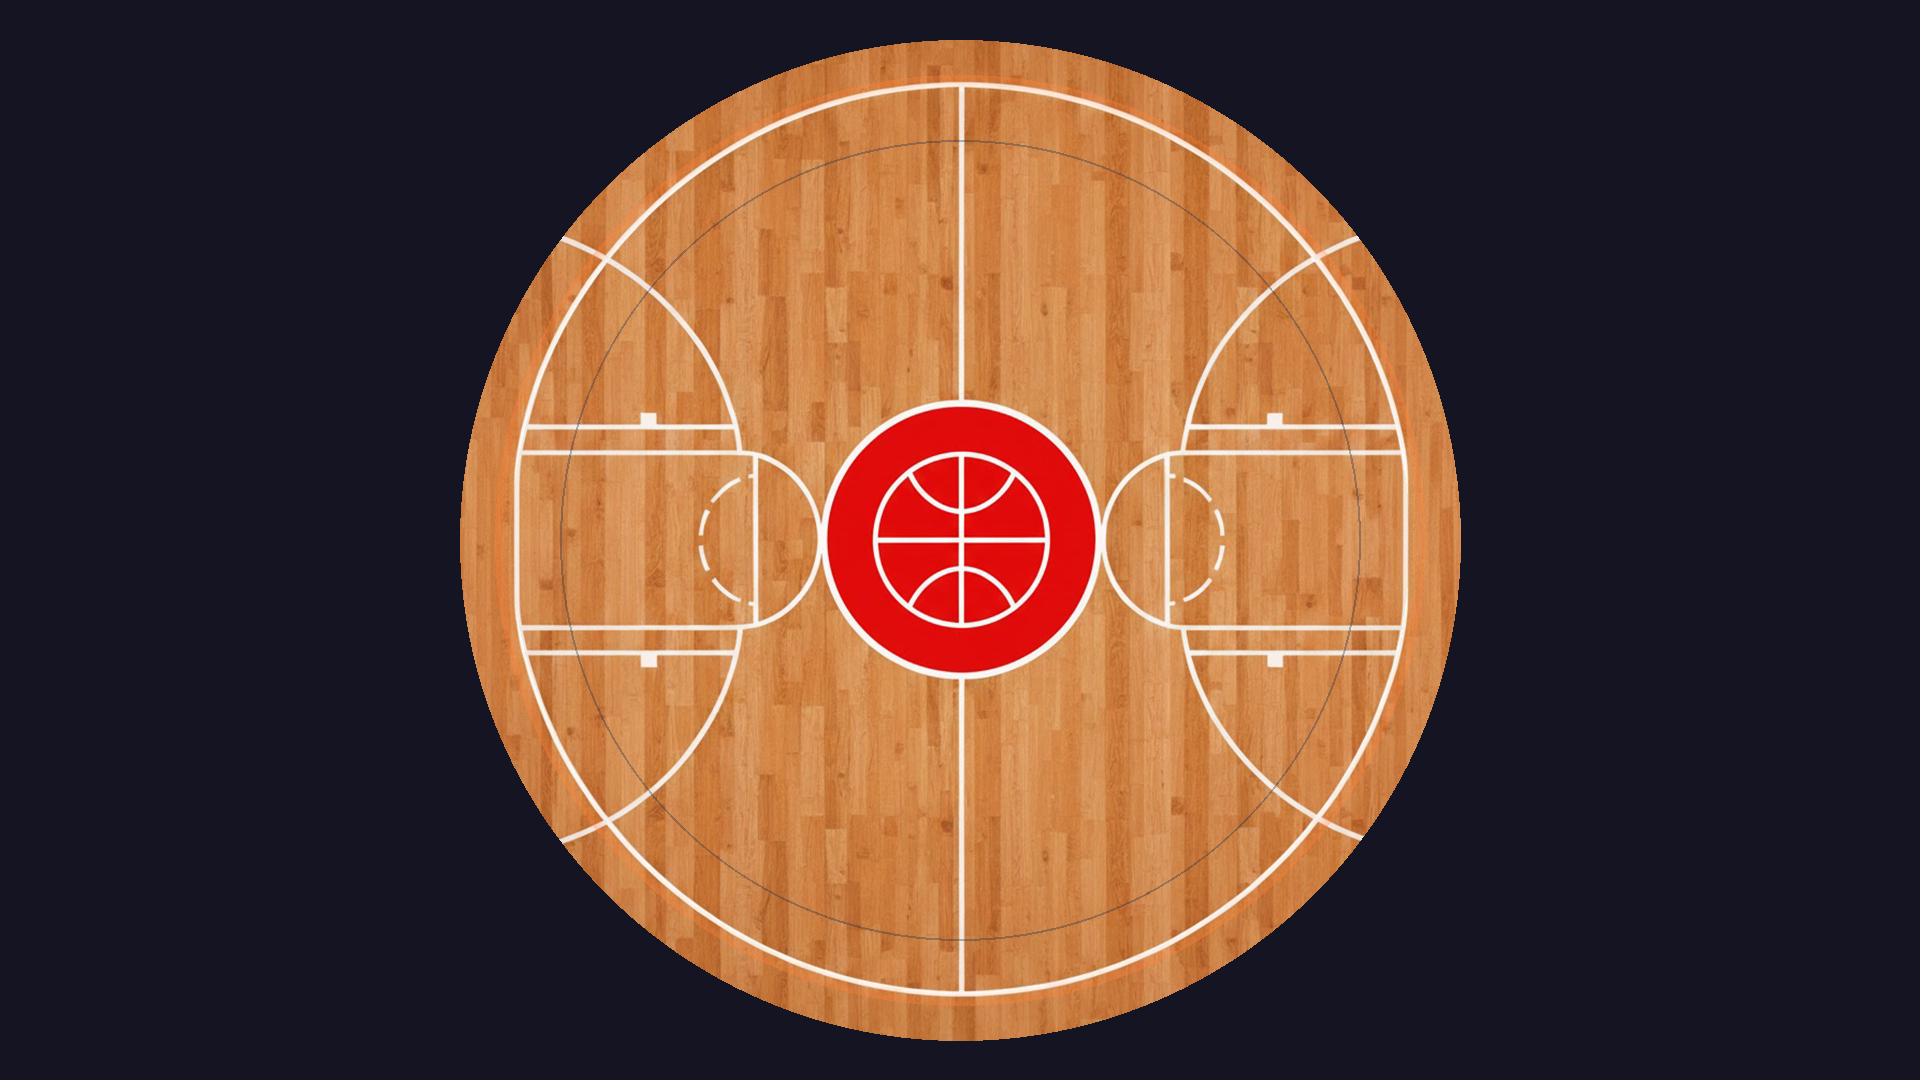
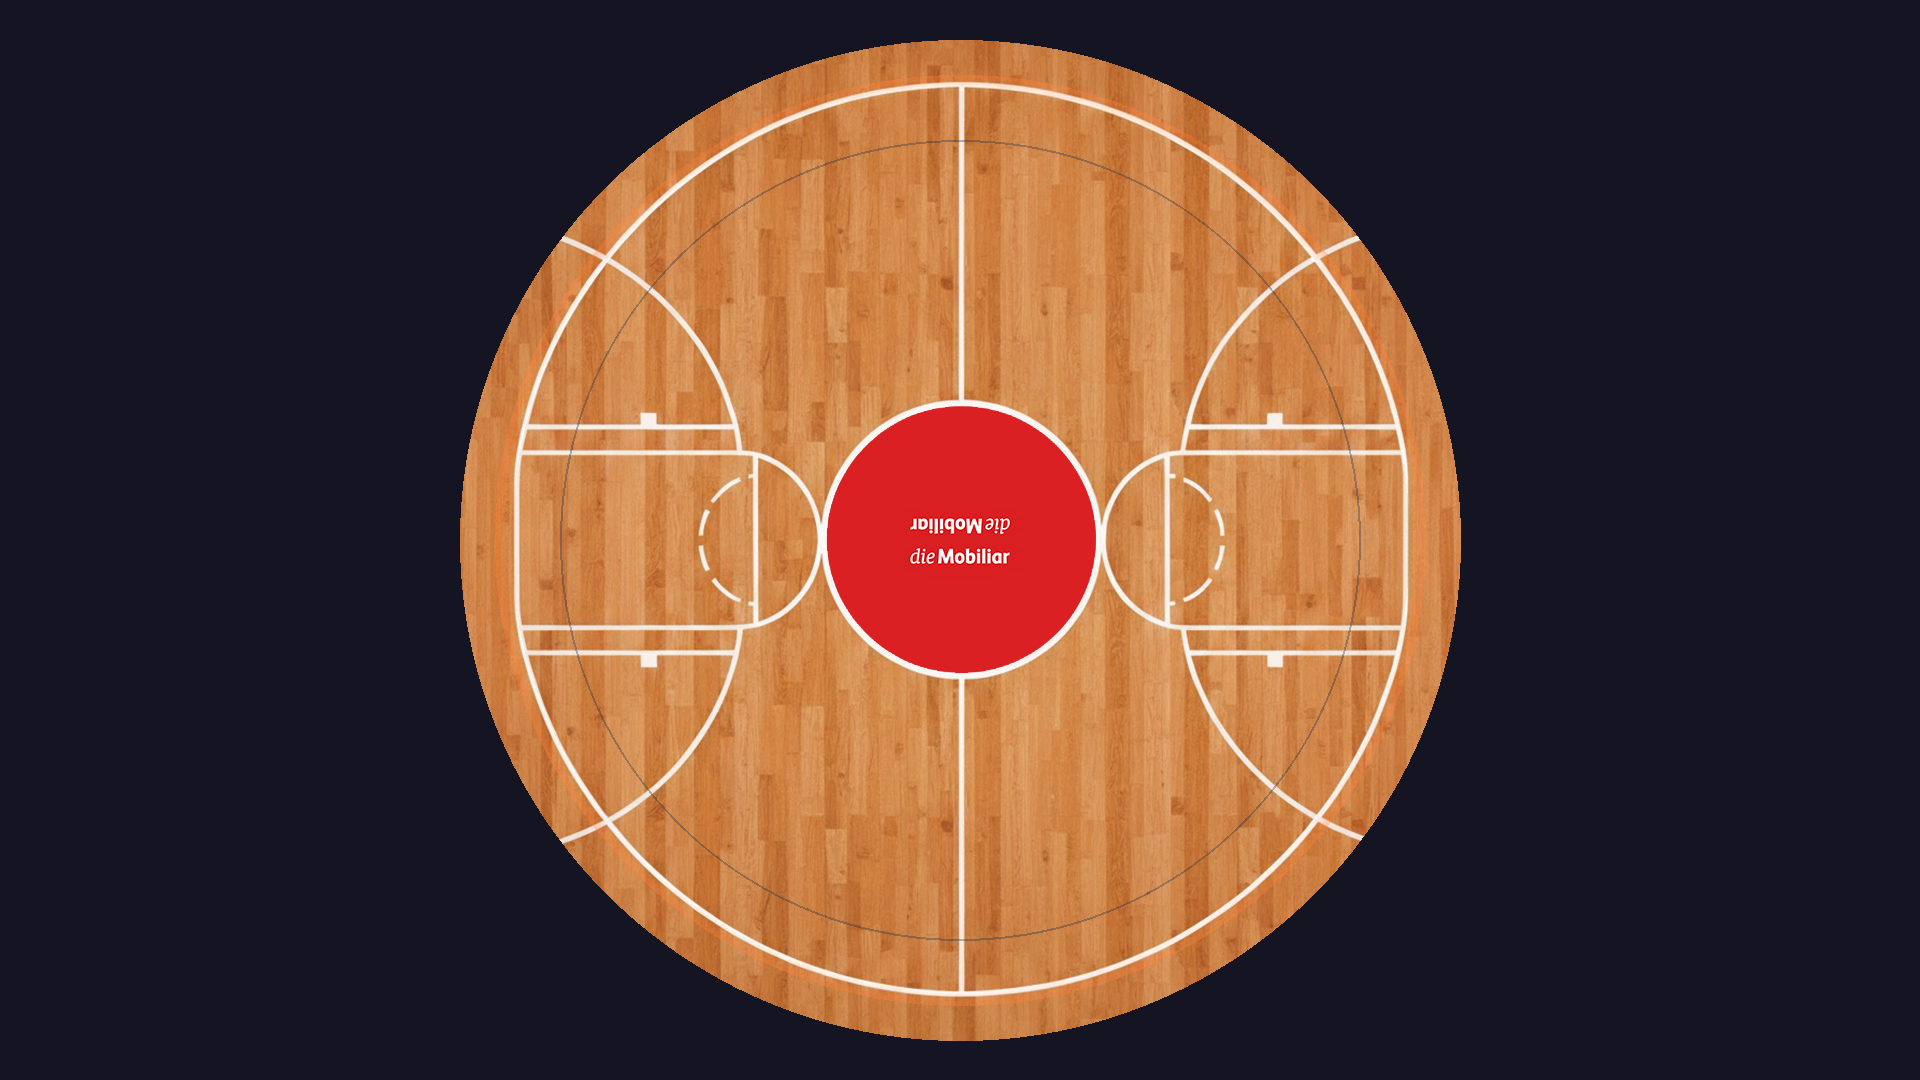
feat: update game visuals and scoring mechanics
- Change title from "Win for Life Roadshow" to "Mobi Arena"
- Update scoring system to simplify points calculation without combos
- Add flipped UI elements for timer and score display
- Localize lobby instructions to German
- Disable sparkles animation in backdrop configuration

Changed region(s): [[0.4062, 0.3667, 0.5938, 0.6417]]

diff --git a/docker/app/client/src/scenes/Game.ts b/docker/app/client/src/scenes/Game.ts
@@ -30,7 +30,9 @@ export default class Game extends Phaser.Scene {
 
   // UI elements
   private timerText?: Phaser.GameObjects.Text;
+  private timerTextFlipped?: Phaser.GameObjects.Text;
   private scoreText?: Phaser.GameObjects.Text;
+  private scoreTextFlipped?: Phaser.GameObjects.Text;
   private comboText?: Phaser.GameObjects.Text;
 
   // Game state
@@ -84,11 +86,11 @@ export default class Game extends Phaser.Scene {
   private createUI(): void {
     const centerX = CANVAS.WIDTH / 2;
 
-    // Timer at top center
+    // Timer at bottom
     this.timerText = this.add
-      .text(centerX, 50, this.formatTime(this.timeRemaining), {
+      .text(centerX, 1080 - 60, this.formatTime(this.timeRemaining), {
         fontFamily: "MuseoSansBold, sans-serif",
-        fontSize: "64px",
+        fontSize: "32px",
         color: "#ffffff",
         shadow: {
           offsetX: 3,
@@ -101,11 +103,29 @@ export default class Game extends Phaser.Scene {
       .setOrigin(0.5)
       .setDepth(DEPTH.UI_ELEMENTS);
 
+    // Timer flipped at top
+    this.timerTextFlipped = this.add
+      .text(centerX, 60, this.formatTime(this.timeRemaining), {
+        fontFamily: "MuseoSansBold, sans-serif",
+        fontSize: "32px",
+        color: "#ffffff",
+        shadow: {
+          offsetX: 3,
+          offsetY: 3,
+          color: "#333333",
+          blur: 0,
+          fill: true,
+        },
+      })
+      .setOrigin(0.5)
+      .setRotation(Math.PI)
+      .setDepth(DEPTH.UI_ELEMENTS);
+
     // Score at center (large)
     this.scoreText = this.add
-      .text(centerX, CANVAS.HEIGHT / 2, "0", {
+      .text(centerX, CANVAS.HEIGHT / 2 + 80, "0", {
         fontFamily: "MuseoSansBold, sans-serif",
-        fontSize: "120px",
+        fontSize: "80px",
         color: "#ffffff",
         shadow: {
           offsetX: 4,
@@ -116,6 +136,25 @@ export default class Game extends Phaser.Scene {
         },
       })
       .setOrigin(0.5)
+      .setDepth(DEPTH.UI_ELEMENTS)
+      .setAlpha(0.8);
+
+    // Score flipped 180° for opposite side
+    this.scoreTextFlipped = this.add
+      .text(centerX, CANVAS.HEIGHT / 2 - 80, "0", {
+        fontFamily: "MuseoSansBold, sans-serif",
+        fontSize: "80px",
+        color: "#ffffff",
+        shadow: {
+          offsetX: 4,
+          offsetY: 4,
+          color: "#333333",
+          blur: 0,
+          fill: true,
+        },
+      })
+      .setOrigin(0.5)
+      .setRotation(Math.PI)
       .setDepth(DEPTH.UI_ELEMENTS)
       .setAlpha(0.8);
 
@@ -172,14 +211,16 @@ export default class Game extends Phaser.Scene {
   private onTimerTick(): void {
     this.timeRemaining -= 100;
 
-    // Update timer display
-    this.timerText?.setText(this.formatTime(this.timeRemaining));
+    // Update timer display (both orientations)
+    const timeStr = this.formatTime(this.timeRemaining);
+    this.timerText?.setText(timeStr);
+    this.timerTextFlipped?.setText(timeStr);
 
     // Flash timer when low
     if (this.timeRemaining <= 10000 && this.timeRemaining > 0) {
-      this.timerText?.setColor(
-        this.timeRemaining % 1000 < 500 ? "#ff6b6b" : "#ffffff"
-      );
+      const color = this.timeRemaining % 1000 < 500 ? "#ff6b6b" : "#ffffff";
+      this.timerText?.setColor(color);
+      this.timerTextFlipped?.setColor(color);
     }
 
     // Check for game end
@@ -234,13 +275,9 @@ export default class Game extends Phaser.Scene {
 
     console.log(`Game Over! Score: ${finalScore}, Players: ${playerCount}`);
 
-    // Transition to Result scene
+    // Restart game immediately (skip result screen)
     this.time.delayedCall(500, () => {
-      this.scene.start(SceneKeys.Result, {
-        score: finalScore,
-        playerCount,
-        isTeamGame: true,
-      });
+      this.scene.restart({ players: this.players });
     });
   }
 
@@ -255,11 +292,11 @@ export default class Game extends Phaser.Scene {
       this.gameArena?.movePaddle(0, 1, delta);
     }
 
-    // Player 2: A/D keys
+    // Player 2: A/D keys (inverted for easier play)
     if (player2Left.isDown) {
-      this.gameArena?.movePaddle(1, -1, delta);
-    } else if (player2Right.isDown) {
       this.gameArena?.movePaddle(1, 1, delta);
+    } else if (player2Right.isDown) {
+      this.gameArena?.movePaddle(1, -1, delta);
     }
 
     // Update game logic (balls, collisions, etc)
@@ -276,8 +313,9 @@ export default class Game extends Phaser.Scene {
     const state = this.gameArena?.getState();
     if (!state) return;
 
-    // Update score
+    // Update score (both orientations)
     this.scoreText?.setText(String(state.score));
+    this.scoreTextFlipped?.setText(String(state.score));
 
     // Update combo
     if (state.combo > 1) {
@@ -311,8 +349,12 @@ export default class Game extends Phaser.Scene {
     this.backdrop = undefined;
     this.timerText?.destroy();
     this.timerText = undefined;
+    this.timerTextFlipped?.destroy();
+    this.timerTextFlipped = undefined;
     this.scoreText?.destroy();
     this.scoreText = undefined;
+    this.scoreTextFlipped?.destroy();
+    this.scoreTextFlipped = undefined;
     this.comboText?.destroy();
     this.comboText = undefined;
   }

diff --git a/docker/app/client/src/managers/GameArena.ts b/docker/app/client/src/managers/GameArena.ts
@@ -161,29 +161,21 @@ export default class GameArena {
     ball.setVelocity(newVelocity.x, newVelocity.y);
     ball.increaseSpeed();
 
-    // Update score
-    const previousCombo = this._combo;
-    this._combo++;
-    const multiplier = Math.min(
-      1 + (this._combo - 1) * SCORING.COMBO_MULTIPLIER,
-      SCORING.MAX_COMBO_MULTIPLIER
-    );
-    const points = Math.round(SCORING.POINTS_PER_BOUNCE * multiplier);
+    // Update score (simple points, no combo)
+    const points = SCORING.POINTS_PER_BOUNCE;
     this._score += points;
-    this._lastBounceTime = now;
 
-    // Visual effects
-    this.createCollisionVisuals(ball, paddle, points, previousCombo);
+    // Visual effects (no combo)
+    this.createCollisionVisuals(ball, paddle, points);
   }
 
   /**
    * Create visual effects for collision
    */
   private createCollisionVisuals(
-    ball: Ball,
+    _ball: Ball,
     paddle: Paddle,
-    points: number,
-    previousCombo: number
+    points: number
   ): void {
     // Calculate hit position (on the paddle arc)
     const hitPos = polarToCartesian(paddle.angle, paddle.outerRadius - 10);
@@ -195,18 +187,14 @@ export default class GameArena {
     paddle.onHit();
 
     // Score popup
-    const scoreText = this._combo > 1 ? `+${points} x${this._combo}` : `+${points}`;
     createFloatingText(
       this.scene,
       hitPos.x,
       hitPos.y - 20,
-      scoreText,
+      `+${points}`,
       "#4ecdc4",
       "28px"
     );
-
-    // Check for combo milestone
-    this.checkComboMilestone(previousCombo, this._combo);
   }
 
   /**

diff --git a/docker/app/client/src/scenes/Lobby.ts b/docker/app/client/src/scenes/Lobby.ts
@@ -237,7 +237,7 @@ export default class Lobby extends Phaser.Scene {
 
     // Instructions
     this.instructionText = this.add
-      .text(centerX, ARENA.CENTER_Y, "Hold BOTH buttons for 3 seconds to join", {
+      .text(centerX, ARENA.CENTER_Y, "Beide Tasten drücken und 3 Sekunden halten", {
         fontFamily: "MuseoSans, sans-serif",
         fontSize: "36px",
         color: "#cccccc",

diff --git a/docker/app/client/src/utils/AnimatedBackdrop.ts b/docker/app/client/src/utils/AnimatedBackdrop.ts
@@ -46,7 +46,7 @@ export default class AnimatedBackdrop {
     backgroundTexture = backgroundTexture ?? TextureKeys.Background;
 
     this.config = {
-      animateSparkles: config.animateSparkles ?? true,
+      animateSparkles: config.animateSparkles ?? false,
       backgroundTexture,
       useTheme: config.useTheme ?? true,
     };

diff --git a/docker/app/client/index.html b/docker/app/client/index.html
@@ -4,7 +4,7 @@
     <meta charset="UTF-8" />
     <link rel="icon" type="image/png" href="/favicon.png" />
     <meta name="viewport" content="width=device-width, initial-scale=1.0" />
-    <title>Win for Life Roadshow</title>
+    <title>Mobi Arena</title>
     <link rel="stylesheet" href="/style.css" />
   </head>
   <body>
